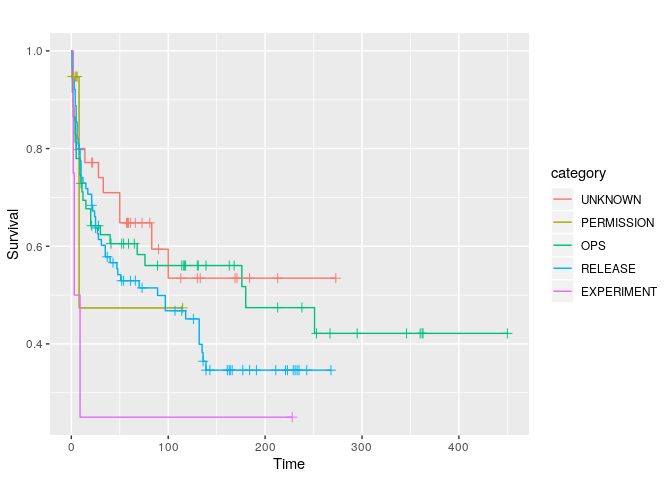
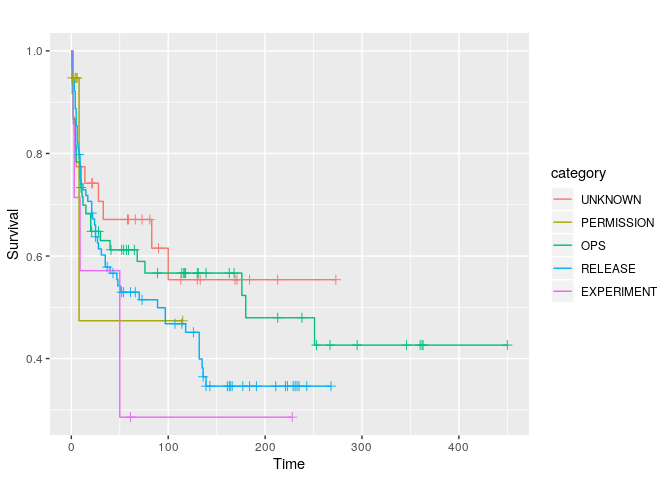
Update tndata_backend with author comments

diff --git a/extraction/R/categories.md b/extraction/R/categories.md
@@ -163,29 +163,30 @@ summary(sf.all.toggles.category)
     ## 
     ##                 category=EXPERIMENT 
     ##  time n.risk n.event survival std.err lower 95% CI upper 95% CI
-    ##     2      4       1     0.75   0.217       0.4259            1
-    ##     3      3       1     0.50   0.250       0.1877            1
-    ##     9      2       1     0.25   0.217       0.0458            1
+    ##     2      7       1    0.857   0.132       0.6334        1.000
+    ##     3      6       1    0.714   0.171       0.4471        1.000
+    ##     9      5       1    0.571   0.187       0.3008        1.000
+    ##    50      4       2    0.286   0.171       0.0886        0.922
     ## 
     ##                 category=OPS 
     ##  time n.risk n.event survival std.err lower 95% CI upper 95% CI
-    ##     1     59       5    0.915  0.0363        0.847        0.989
-    ##     2     54       3    0.864  0.0446        0.781        0.956
-    ##     4     51       3    0.814  0.0507        0.720        0.919
-    ##     5     48       2    0.780  0.0540        0.681        0.893
-    ##     9     46       2    0.746  0.0567        0.643        0.866
-    ##    10     44       1    0.729  0.0579        0.624        0.852
-    ##    11     42       1    0.711  0.0590        0.605        0.837
-    ##    12     41       1    0.694  0.0601        0.586        0.822
-    ##    15     40       1    0.677  0.0611        0.567        0.808
-    ##    20     39       2    0.642  0.0627        0.530        0.777
-    ##    30     35       1    0.624  0.0635        0.511        0.761
-    ##    40     34       1    0.605  0.0642        0.492        0.745
-    ##    68     27       1    0.583  0.0656        0.467        0.727
-    ##    76     26       1    0.561  0.0668        0.444        0.708
-    ##   176     13       1    0.517  0.0743        0.390        0.686
-    ##   180     12       1    0.474  0.0797        0.341        0.659
-    ##   251      9       1    0.422  0.0865        0.282        0.630
+    ##     1     60       5    0.917  0.0357        0.849        0.989
+    ##     2     55       3    0.867  0.0439        0.785        0.957
+    ##     4     52       3    0.817  0.0500        0.724        0.921
+    ##     5     49       2    0.783  0.0532        0.686        0.895
+    ##     9     47       2    0.750  0.0559        0.648        0.868
+    ##    10     45       1    0.733  0.0571        0.630        0.854
+    ##    11     43       1    0.716  0.0583        0.611        0.840
+    ##    12     42       1    0.699  0.0593        0.592        0.826
+    ##    15     41       1    0.682  0.0603        0.574        0.811
+    ##    20     40       2    0.648  0.0619        0.537        0.781
+    ##    30     36       1    0.630  0.0627        0.518        0.766
+    ##    40     35       1    0.612  0.0635        0.499        0.750
+    ##    68     27       1    0.589  0.0650        0.475        0.732
+    ##    76     26       1    0.567  0.0664        0.450        0.713
+    ##   176     13       1    0.523  0.0742        0.396        0.691
+    ##   180     12       1    0.480  0.0798        0.346        0.665
+    ##   251      9       1    0.426  0.0869        0.286        0.636
     ## 
     ##                 category=PERMISSION 
     ##  time n.risk n.event survival std.err lower 95% CI upper 95% CI
@@ -230,17 +231,16 @@ summary(sf.all.toggles.category)
     ## 
     ##                 category=UNKNOWN 
     ##  time n.risk n.event survival std.err lower 95% CI upper 95% CI
-    ##     1     35       2    0.943  0.0392        0.869        1.000
-    ##     2     33       2    0.886  0.0538        0.786        0.998
-    ##     3     31       1    0.857  0.0591        0.749        0.981
-    ##     4     30       1    0.829  0.0637        0.713        0.963
-    ##     5     29       1    0.800  0.0676        0.678        0.944
-    ##    14     28       1    0.771  0.0710        0.644        0.924
-    ##    28     25       1    0.741  0.0745        0.608        0.902
-    ##    33     24       1    0.710  0.0776        0.573        0.879
-    ##    50     23       2    0.648  0.0822        0.505        0.831
-    ##    83     12       1    0.594  0.0914        0.439        0.803
-    ##   100     10       1    0.535  0.0997        0.371        0.770
+    ##     1     31       2    0.935  0.0441        0.853        1.000
+    ##     2     29       2    0.871  0.0602        0.761        0.997
+    ##     3     27       1    0.839  0.0661        0.719        0.979
+    ##     4     26       1    0.806  0.0710        0.679        0.958
+    ##     5     25       1    0.774  0.0751        0.640        0.936
+    ##    14     24       1    0.742  0.0786        0.603        0.913
+    ##    28     21       1    0.707  0.0824        0.562        0.888
+    ##    33     20       1    0.671  0.0855        0.523        0.862
+    ##    83     12       1    0.615  0.0949        0.455        0.833
+    ##   100     10       1    0.554  0.1035        0.384        0.799
 
 ``` r
 ggsurv(sf.all.toggles.category)
@@ -403,13 +403,13 @@ data %>%
     ##     category, data = .)
     ## 
     ##                      N Observed Expected (O-E)^2/E (O-E)^2/V
-    ## category=EXPERIMENT  4        3     1.34     2.042     2.121
-    ## category=OPS        59       28    30.84     0.261     0.393
+    ## category=EXPERIMENT  7        5     2.96     1.410     1.485
+    ## category=OPS        60       28    31.38     0.365     0.553
     ## category=PERMISSION 19        2     3.93     0.947     1.061
     ## category=RELEASE    89       52    45.17     1.034     1.952
-    ## category=UNKNOWN    35       14    17.72     0.782     0.976
+    ## category=UNKNOWN    31       12    15.56     0.816     0.989
     ## 
-    ##  Chisq= 5.2  on 4 degrees of freedom, p= 0.265
+    ##  Chisq= 4.7  on 4 degrees of freedom, p= 0.318
 
 Preliminary notes:
 
@@ -446,7 +446,7 @@ data %>%
 
 Preliminary notes:
 
-  - Survival of toggles across projects are very different
+  - Survival of toggles across projects are statistically different
 
 **edX projects:**
 
